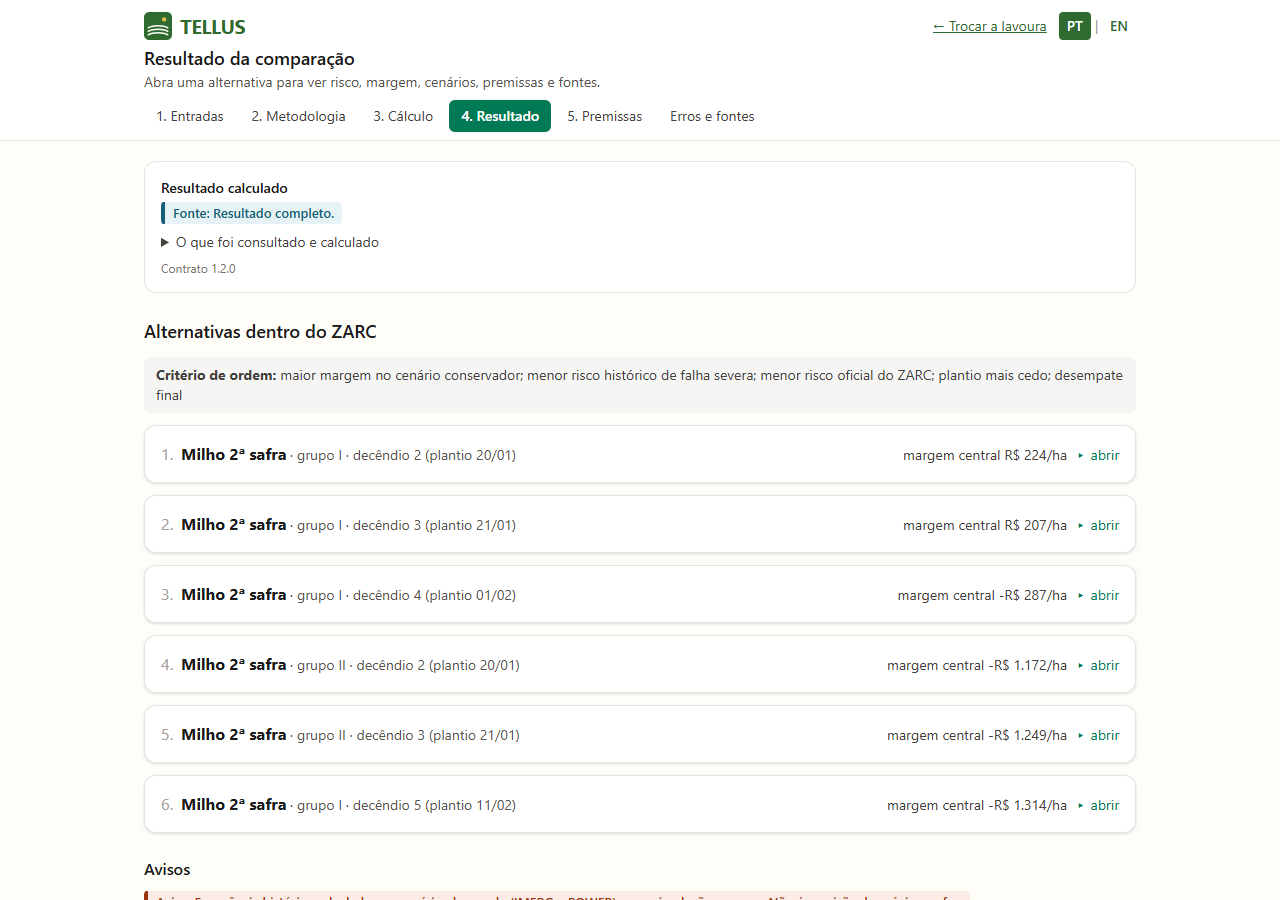
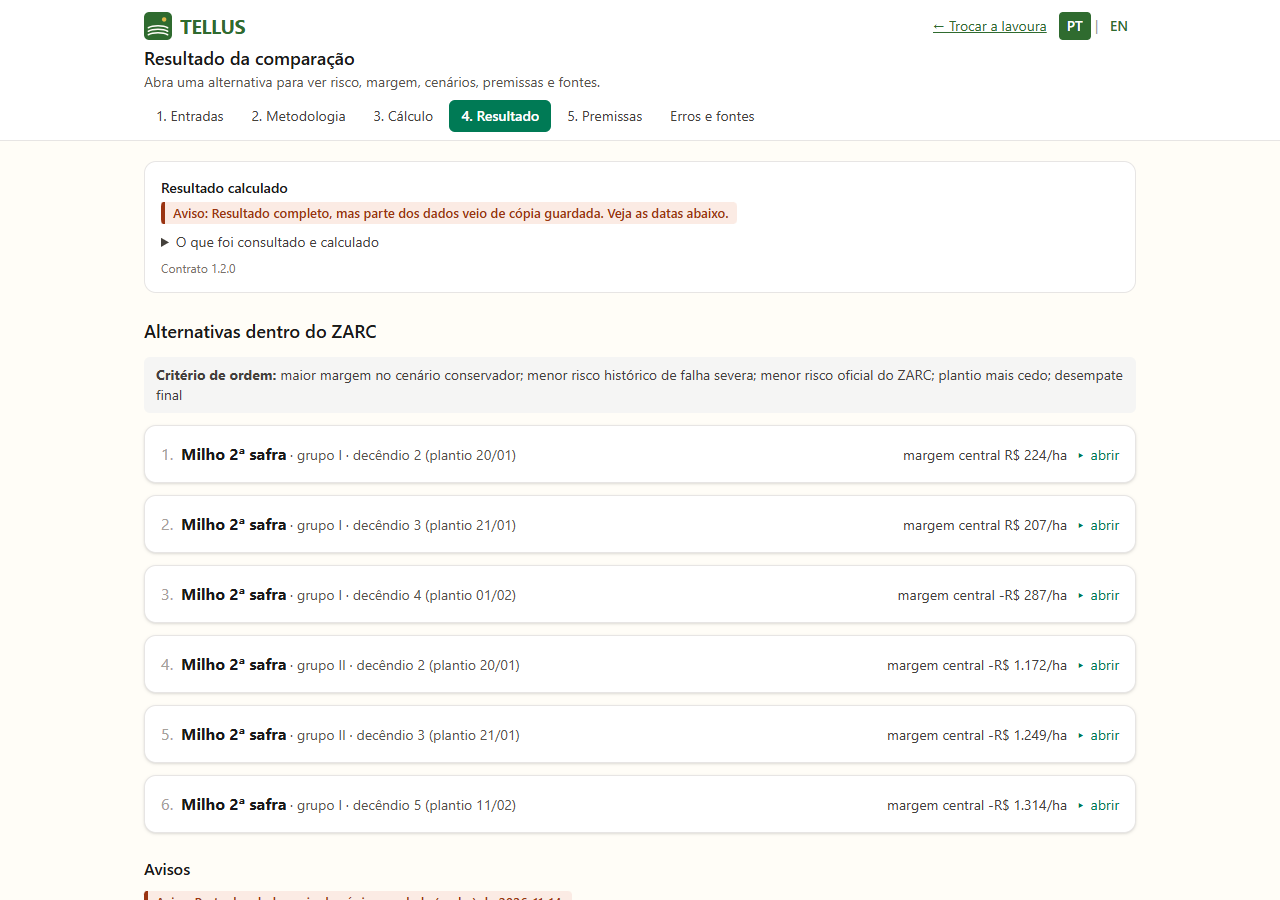
Resultado da bateria e2e após a correção: 21 de 21 testes passaram

diff --git a/docs/testes-e2e/RELATORIO.md b/docs/testes-e2e/RELATORIO.md
@@ -7,22 +7,14 @@
 
 | Item | Valor |
 |---|---|
-| Resultado | **21 de 21 testes conforme o esperado** (2 deles são defeitos conhecidos, abaixo) |
-| Verificações | 127 de 129 atendidas (as não atendidas são as dos defeitos conhecidos) |
+| Resultado | **21 de 21 testes conforme o esperado** (0 deles são defeitos conhecidos, abaixo) |
+| Verificações | 131 de 131 atendidas (as não atendidas são as dos defeitos conhecidos) |
 | Capturas de tela | 45 |
-| Início da execução | 15/11/2026, 15:49:40 (horário de Brasília) |
-| Commit testado | `b399ebb` (branch `testes-e2e-playwright`, sem alterações locais) |
+| Início da execução | 15/11/2026, 16:35:48 (horário de Brasília) |
+| Commit testado | `b00a3b0` (branch `corrige-grupo-nao-sei`, com 51 arquivo(s) alterado(s) fora do commit) |
 | Navegador | Microsoft Edge 157.0.4341.60 (Playwright 1.64.1, Node v24.20.0) |
 | Contrato da API | 1.2.0 |
 | Dados | API local com as séries e caches versionados do repositório (sem login NASA) |
-
-## Defeitos conhecidos encontrados pela bateria
-
-Testes marcados com `test.fail`: descrevem o comportamento correto e falham enquanto o defeito existir.
-Quando o defeito for corrigido, o Playwright acusa "passou inesperadamente" e a marca deve sair.
-
-- [Defeito conhecido: "O que foi consultado" com grupo "não sei" lista as fontes e não marca culturas como falha](#03-calculo-real-defeito-conhecido-o-que-foi-consultado-com-grupo-nao-sei-lista-as-fontes-e-nao-marca-culturas-como-falha): Com grupo "não sei", fontes vem vazio e as seções por cultura aparecem como ✕ indisponível. (`frontend/e2e/03-calculo-real.e2e.ts`)
-- [Defeito conhecido: com grupo "não sei", o resultado mostra o padrão ao lado do preço editado](#04-premissas-defeito-conhecido-com-grupo-nao-sei-o-resultado-mostra-o-padrao-ao-lado-do-preco-editado): Com grupo "não sei", valor_padrao vem nulo e a tela diz "sem padrão com fonte". (`frontend/e2e/04-premissas.e2e.ts`)
 
 ## Testes
 
@@ -38,9 +30,9 @@ Quando o defeito for corrigido, o Playwright acusa "passou inesperadamente" e a 
 | 2. Entradas e validação | [Caso de referência preenchido segue para a metodologia](#02-entradas-caso-de-referencia-preenchido-segue-para-a-metodologia) | ✅ passou | 2 | 6/6 |
 | 2. Entradas e validação | [Metodologia sem escolha não calcula](#02-entradas-metodologia-sem-escolha-nao-calcula) | ✅ passou | 1 | 7/7 |
 | 3. Cálculo real (Rio Verde-GO) | [Caso de referência: Rio Verde-GO, colheita 20/01/2027, argilosa, grupo "não sei"](#03-calculo-real-caso-de-referencia-rio-verde-go-colheita-20-01-2027-argilosa-grupo-nao-sei-) | ✅ passou | 6 | 19/19 |
-| 3. Cálculo real (Rio Verde-GO) | [Defeito conhecido: "O que foi consultado" com grupo "não sei" lista as fontes e não marca culturas como falha](#03-calculo-real-defeito-conhecido-o-que-foi-consultado-com-grupo-nao-sei-lista-as-fontes-e-nao-marca-culturas-como-falha) | ⚠ defeito conhecido (falhou como esperado) | 2 | 6/7 |
+| 3. Cálculo real (Rio Verde-GO) | [Grupo "não sei": "O que foi consultado" lista as fontes de clima e as culturas calculadas por grupo](#03-calculo-real-grupo-nao-sei-o-que-foi-consultado-lista-as-fontes-de-clima-e-as-culturas-calculadas-por-grupo) | ✅ passou | 2 | 9/9 |
 | 4. Premissas editadas e recálculo | [Premissas mostram os padrões reais e a edição chega ao cálculo](#04-premissas-premissas-mostram-os-padroes-reais-e-a-edicao-chega-ao-calculo) | ✅ passou | 5 | 16/16 |
-| 4. Premissas editadas e recálculo | [Defeito conhecido: com grupo "não sei", o resultado mostra o padrão ao lado do preço editado](#04-premissas-defeito-conhecido-com-grupo-nao-sei-o-resultado-mostra-o-padrao-ao-lado-do-preco-editado) | ⚠ defeito conhecido (falhou como esperado) | 1 | 6/7 |
+| 4. Premissas editadas e recálculo | [Grupo "não sei": o resultado mostra o padrão ao lado do preço editado](#04-premissas-grupo-nao-sei-o-resultado-mostra-o-padrao-ao-lado-do-preco-editado) | ✅ passou | 1 | 7/7 |
 | 5. Versão em inglês (spec 014) | [Trocar para inglês no topo vale em todas as telas e no resultado real](#05-idioma-trocar-para-ingles-no-topo-vale-em-todas-as-telas-e-no-resultado-real) | ✅ passou | 5 | 10/10 |
 | 5. Versão em inglês (spec 014) | [Link com ?lang=en abre direto em inglês](#05-idioma-link-com-lang-en-abre-direto-em-ingles) | ✅ passou | 1 | 1/1 |
 | 6. Celular (390 × 844) | [Fluxo completo no celular sem nada cortado na lateral](#06-celular-fluxo-completo-no-celular-sem-nada-cortado-na-lateral) | ✅ passou | 4 | 11/11 |
@@ -55,7 +47,7 @@ Quando o defeito for corrigido, o Playwright acusa "passou inesperadamente" e a 
 <a id="01-tela-inicial-tela-inicial-abre-com-marca-passo-a-passo-e-seletor-de-local"></a>
 ### Tela inicial abre com marca, passo a passo e seletor de local
 
-✅ passou · arquivo `frontend/e2e/01-tela-inicial.e2e.ts` · tela 1280×900 · 15/11/2026, 15:49:41 → 15/11/2026, 15:49:42
+✅ passou · arquivo `frontend/e2e/01-tela-inicial.e2e.ts` · tela 1280×900 · 15/11/2026, 16:35:49 → 15/11/2026, 16:35:49
 
 #### Etapa 1: tela inicial
 
@@ -74,7 +66,7 @@ URL: `/`
 <a id="01-tela-inicial-escolher-rio-verde-go-pela-busca-mostra-as-fontes-do-local"></a>
 ### Escolher Rio Verde-GO pela busca mostra as fontes do local
 
-✅ passou · arquivo `frontend/e2e/01-tela-inicial.e2e.ts` · tela 1280×900 · 15/11/2026, 15:49:42 → 15/11/2026, 15:49:43
+✅ passou · arquivo `frontend/e2e/01-tela-inicial.e2e.ts` · tela 1280×900 · 15/11/2026, 16:35:50 → 15/11/2026, 16:35:51
 
 #### Etapa 1: busca por Rio Verde
 
@@ -114,7 +106,7 @@ URL: `/`
 <a id="01-tela-inicial-coordenadas-digitadas-tambem-escolhem-o-local"></a>
 ### Coordenadas digitadas também escolhem o local
 
-✅ passou · arquivo `frontend/e2e/01-tela-inicial.e2e.ts` · tela 1280×900 · 15/11/2026, 15:49:43 → 15/11/2026, 15:49:44
+✅ passou · arquivo `frontend/e2e/01-tela-inicial.e2e.ts` · tela 1280×900 · 15/11/2026, 16:35:52 → 15/11/2026, 16:35:52
 
 #### Etapa 1: coordenadas digitadas
 
@@ -135,7 +127,7 @@ URL: `/`
 <a id="01-tela-inicial-coordenada-fora-do-brasil-e-recusada-com-mensagem-em-portugues"></a>
 ### Coordenada fora do Brasil é recusada com mensagem em português
 
-✅ passou · arquivo `frontend/e2e/01-tela-inicial.e2e.ts` · tela 1280×900 · 15/11/2026, 15:49:44 → 15/11/2026, 15:49:45
+✅ passou · arquivo `frontend/e2e/01-tela-inicial.e2e.ts` · tela 1280×900 · 15/11/2026, 16:35:53 → 15/11/2026, 16:35:53
 
 #### Etapa 1: ponto fora do Brasil recusado
 
@@ -150,7 +142,7 @@ URL: `/`
 <a id="01-tela-inicial-botao-da-tela-inicial-leva-a-comparacao"></a>
 ### Botão da tela inicial leva à comparação
 
-✅ passou · arquivo `frontend/e2e/01-tela-inicial.e2e.ts` · tela 1280×900 · 15/11/2026, 15:49:45 → 15/11/2026, 15:49:47
+✅ passou · arquivo `frontend/e2e/01-tela-inicial.e2e.ts` · tela 1280×900 · 15/11/2026, 16:35:54 → 15/11/2026, 16:35:55
 
 #### Etapa 1: entradas com a lavoura escolhida
 
@@ -171,7 +163,7 @@ URL: `/comparacao/entradas`
 <a id="02-entradas-entradas-vazias-nao-seguem-e-explicam-o-que-falta"></a>
 ### Entradas vazias não seguem e explicam o que falta
 
-✅ passou · arquivo `frontend/e2e/02-entradas.e2e.ts` · tela 1280×900 · 15/11/2026, 15:49:47 → 15/11/2026, 15:49:47
+✅ passou · arquivo `frontend/e2e/02-entradas.e2e.ts` · tela 1280×900 · 15/11/2026, 16:35:56 → 15/11/2026, 16:35:56
 
 #### Etapa 1: erros de entradas vazias
 
@@ -187,7 +179,7 @@ URL: `/comparacao/entradas`
 <a id="02-entradas-agua-disponivel-em-mm-aceita-so-numero-positivo"></a>
 ### Água disponível em mm aceita só número positivo
 
-✅ passou · arquivo `frontend/e2e/02-entradas.e2e.ts` · tela 1280×900 · 15/11/2026, 15:49:47 → 15/11/2026, 15:49:49
+✅ passou · arquivo `frontend/e2e/02-entradas.e2e.ts` · tela 1280×900 · 15/11/2026, 16:35:57 → 15/11/2026, 16:35:58
 
 #### Etapa 1: agua disponivel negativa recusada
 
@@ -205,7 +197,7 @@ URL: `/comparacao/entradas`
 <a id="02-entradas-caso-de-referencia-preenchido-segue-para-a-metodologia"></a>
 ### Caso de referência preenchido segue para a metodologia
 
-✅ passou · arquivo `frontend/e2e/02-entradas.e2e.ts` · tela 1280×900 · 15/11/2026, 15:49:49 → 15/11/2026, 15:49:50
+✅ passou · arquivo `frontend/e2e/02-entradas.e2e.ts` · tela 1280×900 · 15/11/2026, 16:35:59 → 15/11/2026, 16:36:01
 
 #### Etapa 1: entradas preenchidas
 
@@ -234,7 +226,7 @@ URL: `/comparacao/metodologia`
 <a id="02-entradas-metodologia-sem-escolha-nao-calcula"></a>
 ### Metodologia sem escolha não calcula
 
-✅ passou · arquivo `frontend/e2e/02-entradas.e2e.ts` · tela 1280×900 · 15/11/2026, 15:49:51 → 15/11/2026, 15:49:52
+✅ passou · arquivo `frontend/e2e/02-entradas.e2e.ts` · tela 1280×900 · 15/11/2026, 16:36:01 → 15/11/2026, 16:36:03
 
 #### Etapa 1: metodologia sem escolha
 
@@ -257,7 +249,7 @@ URL: `/comparacao/metodologia`
 <a id="03-calculo-real-caso-de-referencia-rio-verde-go-colheita-20-01-2027-argilosa-grupo-nao-sei-"></a>
 ### Caso de referência: Rio Verde-GO, colheita 20/01/2027, argilosa, grupo "não sei"
 
-✅ passou · arquivo `frontend/e2e/03-calculo-real.e2e.ts` · tela 1280×900 · 15/11/2026, 15:49:52 → 15/11/2026, 15:49:56
+✅ passou · arquivo `frontend/e2e/03-calculo-real.e2e.ts` · tela 1280×900 · 15/11/2026, 16:36:03 → 15/11/2026, 16:36:08
 
 #### Etapa 1: metodologia: comparar as alternativas
 
@@ -307,7 +299,7 @@ URL: `/comparacao/resultado`
 
 | | Verificação | Esperado | Obtido |
 |---|---|---|---|
-| ✅ | Recomendação listada como pronta | "Recomendação (ordem das alternativas): pronto" | O que foi consultado e calculado ✕ Milho 2ª safra: risco hídrico (opcional): indisponível ✕ Milho 2ª safra: margem (opcional): indisponível ✕ Sorgo granífero 2ª safra: risco hídrico (opcional): indisponível ✕ Sorgo granífero 2ª safra: margem (opcional): indisponível ✕ Braquiária (cobertura): risco hídrico (opcional): indisponível ✕ Braquiária (cobertura): margem (opcional): indisponível ✓ Recomendação (ordem das alternativas): pronto ✓ Vegetação (NDVI MODIS) (opcional): pronto ✓ Umidade do solo (SMAP) (opcional): pronto |
+| ✅ | Recomendação listada como pronta | "Recomendação (ordem das alternativas): pronto" | O que foi consultado e calculado ◐ NASA GPM IMERG Final (precipitação diária): pronto com cópia guardada (cópia guardada de 2026-11-14) ◐ NASA POWER (variáveis diárias para ETo): pronto com cópia guardada (cópia guardada de 2026-11-14) ✓ Milho 2ª safra: risco hídrico (opcional): pronto (por grupo, na recomendação) ✓ Milho 2ª safra: margem (opcional): pronto (por grupo, na recomendação) ✓ Sorgo granífero 2ª safra: risco hídrico (opcional): pronto (por grupo, na recomendação) ✓ Sorgo granífero 2ª safra: margem (opcional): pronto (por grupo, na recomendação) ✓ Braquiária (cobertura): risco hídrico (opcional): pronto (por grupo, na recomendação) ✓ Braquiária (cobertura): margem (opcional): pronto (por grupo, na recomendação) ✓ Recomendação (ordem das alternativas): pronto ✓ Vegetação (NDVI MODIS) (opcional): pronto ✓ Umidade do solo (SMAP) (opcional): pronto |
 
 ![o que foi consultado e calculado](capturas/03-calculo-real/caso-de-referencia-rio-verde-go-colheita-20-01-2027-argilosa/04-o-que-foi-consultado-e-calculado.png)
 
@@ -332,18 +324,10 @@ URL: `/comparacao/resultado`
 
 ![verificações finais](capturas/03-calculo-real/caso-de-referencia-rio-verde-go-colheita-20-01-2027-argilosa/06-verificacoes-finais.png)
 
-<a id="03-calculo-real-defeito-conhecido-o-que-foi-consultado-com-grupo-nao-sei-lista-as-fontes-e-nao-marca-culturas-como-falha"></a>
-### Defeito conhecido: "O que foi consultado" com grupo "não sei" lista as fontes e não marca culturas como falha
+<a id="03-calculo-real-grupo-nao-sei-o-que-foi-consultado-lista-as-fontes-de-clima-e-as-culturas-calculadas-por-grupo"></a>
+### Grupo "não sei": "O que foi consultado" lista as fontes de clima e as culturas calculadas por grupo
 
-⚠ defeito conhecido (falhou como esperado) · arquivo `frontend/e2e/03-calculo-real.e2e.ts` · tela 1280×900 · 15/11/2026, 15:49:56 → 15/11/2026, 15:50:02
-
-**Defeito conhecido:** Com grupo "não sei", fontes vem vazio e as seções por cultura aparecem como ✕ indisponível.
-
-**Falha registrada (esperada):**
-
-```
-Error: expect(locator).toContainText(expected) failed  Locator: locator('#resultado-real details').first()
-```
+✅ passou · arquivo `frontend/e2e/03-calculo-real.e2e.ts` · tela 1280×900 · 15/11/2026, 16:36:08 → 15/11/2026, 16:36:17
 
 #### Etapa 1: metodologia: comparar as alternativas
 
@@ -357,25 +341,27 @@ URL: `/comparacao/metodologia`
 | ✅ | Área confirmada a partir da lavoura da tela inicial | estado da área com Rio Verde | Área confirmada: Rio Verde-GO (ponto) |
 | ✅ | Entradas válidas levam à metodologia | URL /comparacao/metodologia | http://localhost:4321/comparacao/metodologia |
 
-![metodologia: comparar as alternativas](capturas/03-calculo-real/defeito-conhecido-o-que-foi-consultado-com-grupo-nao-sei-lis/01-metodologia-comparar-as-alternativas.png)
+![metodologia: comparar as alternativas](capturas/03-calculo-real/grupo-nao-sei-o-que-foi-consultado-lista-as-fontes-de-clima-/01-metodologia-comparar-as-alternativas.png)
 
-#### Etapa 2: FALHA Fontes de dados listadas
+#### Etapa 2: o que foi consultado com grupo nao sei
 
 URL: `/comparacao/resultado`
 
 | | Verificação | Esperado | Obtido |
 |---|---|---|---|
 | ✅ | Cálculo real termina e mostra o estado do resultado | "Resultado calculado" ou "Resultado parcial" | Resultado calculado |
-| ❌ | Fontes de dados listadas | NASA GPM IMERG e NASA POWER entre as etapas | O que foi consultado e calculado ✕ Milho 2ª safra: risco hídrico (opcional): indisponível ✕ Milho 2ª safra: margem (opcional): indisponível ✕ Sorgo granífero 2ª safra: risco hídrico (opcional): indisponível ✕ Sorgo granífero 2ª safra: margem (opcional): indisponível ✕ Braquiária (cobertura): risco hídrico (opcional): indisponível ✕ Braquiária (cobertura): margem (opcional): indisponível ✓ Recomendação (ordem das alternativas): pronto ✓ Vegetação (NDVI MODIS) (opcional): pronto ✓ Umidade do solo (SMAP) (opcional): pronto |
+| ✅ | Fontes de dados listadas | NASA GPM IMERG e NASA POWER entre as etapas | O que foi consultado e calculado ◐ NASA GPM IMERG Final (precipitação diária): pronto com cópia guardada (cópia guardada de 2026-11-14) ◐ NASA POWER (variáveis diárias para ETo): pronto com cópia guardada (cópia guardada de 2026-11-14) ✓ Milho 2ª safra: risco hídrico (opcional): pronto (por grupo, na recomendação) ✓ Milho 2ª safra: margem (opcional): pronto (por grupo, na recomendação) ✓ Sorgo granífero 2ª safra: risco hídrico (opcional): pronto (por grupo, na recomendação) ✓ Sorgo granífero 2ª safra: margem (opcional): pronto (por grupo, na recomendação) ✓ Braquiária (cobertura): risco hídrico (opcional): pronto (por grupo, na recomendação) ✓ Braquiária (cobertura): margem (opcional): pronto (por grupo, na recomendação) ✓ Recomendação (ordem das alternativas): pronto ✓ Vegetação (NDVI MODIS) (opcional): pronto ✓ Umidade do solo (SMAP) (opcional): pronto |
+| ✅ | Culturas não aparecem como falha | nenhum "✕" nas culturas | O que foi consultado e calculado ◐ NASA GPM IMERG Final (precipitação diária): pronto com cópia guardada (cópia guardada de 2026-11-14) ◐ NASA POWER (variáveis diárias para ETo): pronto com cópia guardada (cópia guardada de 2026-11-14) ✓ Milho 2ª safra: risco hídrico (opcional): pronto (por grupo, na recomendação) ✓ Milho 2ª safra: margem (opcional): pronto (por grupo, na recomendação) ✓ Sorgo granífero 2ª safra: risco hídrico (opcional): pronto (por grupo, na recomendação) ✓ Sorgo granífero 2ª safra: margem (opcional): pronto (por grupo, na recomendação) ✓ Braquiária (cobertura): risco hídrico (opcional): pronto (por grupo, na recomendação) ✓ Braquiária (cobertura): margem (opcional): pronto (por grupo, na recomendação) ✓ Recomendação (ordem das alternativas): pronto ✓ Vegetação (NDVI MODIS) (opcional): pronto ✓ Umidade do solo (SMAP) (opcional): pronto |
+| ✅ | Culturas indicadas como calculadas por grupo | "por grupo, na recomendação" | conforme o esperado |
 
-![FALHA Fontes de dados listadas](capturas/03-calculo-real/defeito-conhecido-o-que-foi-consultado-com-grupo-nao-sei-lis/02-falha-fontes-de-dados-listadas.png)
+![o que foi consultado com grupo nao sei](capturas/03-calculo-real/grupo-nao-sei-o-que-foi-consultado-lista-as-fontes-de-clima-/02-o-que-foi-consultado-com-grupo-nao-sei.png)
 
 ## 4. Premissas editadas e recálculo
 
 <a id="04-premissas-premissas-mostram-os-padroes-reais-e-a-edicao-chega-ao-calculo"></a>
 ### Premissas mostram os padrões reais e a edição chega ao cálculo
 
-✅ passou · arquivo `frontend/e2e/04-premissas.e2e.ts` · tela 1280×900 · 15/11/2026, 15:50:03 → 15/11/2026, 15:50:07
+✅ passou · arquivo `frontend/e2e/04-premissas.e2e.ts` · tela 1280×900 · 15/11/2026, 16:36:18 → 15/11/2026, 16:36:29
 
 #### Etapa 1: padroes reais de Rio Verde-GO
 
@@ -423,7 +409,7 @@ URL: `/comparacao/resultado`
 | | Verificação | Esperado | Obtido |
 |---|---|---|---|
 | ✅ | Cálculo real termina e mostra o estado do resultado | "Resultado calculado" ou "Resultado parcial" | Resultado calculado |
-| ✅ | Preço editado chega ao cálculo do milho | hipótese "preco_r_saca (Milho 2ª safra): … → 70 … (editado pelo produtor)" | Hipótese: preco_r_saca (Milho 2ª safra): sem padrão com fonte → 70 R$/saca 60 kg (editado pelo produtor) |
+| ✅ | Preço editado chega ao cálculo do milho | hipótese "preco_r_saca (Milho 2ª safra): … → 70 … (editado pelo produtor)" | Hipótese: preco_r_saca (Milho 2ª safra): padrão 67,34 → 70 R$/saca 60 kg (editado pelo produtor) |
 
 ![milho com o preco editado](capturas/04-premissas/premissas-mostram-os-padroes-reais-e-a-edicao-chega-ao-calcu/04-milho-com-o-preco-editado.png)
 
@@ -438,20 +424,12 @@ URL: `/comparacao/resultado`
 
 ![sorgo com a cotacao informada](capturas/04-premissas/premissas-mostram-os-padroes-reais-e-a-edicao-chega-ao-calcu/05-sorgo-com-a-cotacao-informada.png)
 
-<a id="04-premissas-defeito-conhecido-com-grupo-nao-sei-o-resultado-mostra-o-padrao-ao-lado-do-preco-editado"></a>
-### Defeito conhecido: com grupo "não sei", o resultado mostra o padrão ao lado do preço editado
+<a id="04-premissas-grupo-nao-sei-o-resultado-mostra-o-padrao-ao-lado-do-preco-editado"></a>
+### Grupo "não sei": o resultado mostra o padrão ao lado do preço editado
 
-⚠ defeito conhecido (falhou como esperado) · arquivo `frontend/e2e/04-premissas.e2e.ts` · tela 1280×900 · 15/11/2026, 15:50:07 → 15/11/2026, 15:50:14
+✅ passou · arquivo `frontend/e2e/04-premissas.e2e.ts` · tela 1280×900 · 15/11/2026, 16:36:29 → 15/11/2026, 16:36:40
 
-**Defeito conhecido:** Com grupo "não sei", valor_padrao vem nulo e a tela diz "sem padrão com fonte".
-
-**Falha registrada (esperada):**
-
-```
-Error: expect(locator).toContainText(expected) failed  Locator: locator('#resultado-real details.group').filter({ hasText: 'Milho' }).first()
-```
-
-#### Etapa 1: FALHA Padrão aparece ao lado do novo valor
+#### Etapa 1: padrao ao lado do preco editado
 
 URL: `/comparacao/resultado`
 
@@ -463,16 +441,16 @@ URL: `/comparacao/resultado`
 | ✅ | Área confirmada a partir da lavoura da tela inicial | estado da área com Rio Verde | Área confirmada: Rio Verde-GO (ponto) |
 | ✅ | Entradas válidas levam à metodologia | URL /comparacao/metodologia | http://localhost:4321/comparacao/metodologia |
 | ✅ | Cálculo real termina e mostra o estado do resultado | "Resultado calculado" ou "Resultado parcial" | Resultado calculado |
-| ❌ | Padrão aparece ao lado do novo valor | "padrão 67,34 → 70" (ou o padrão vigente) | Hipótese: preco_r_saca (Milho 2ª safra): sem padrão com fonte → 70 R$/saca 60 kg (editado pelo produtor) |
+| ✅ | Padrão aparece ao lado do novo valor | "padrão 67,34 → 70" (ou o padrão vigente) | Hipótese: preco_r_saca (Milho 2ª safra): padrão 67,34 → 70 R$/saca 60 kg (editado pelo produtor) |
 
-![FALHA Padrão aparece ao lado do novo valor](capturas/04-premissas/defeito-conhecido-com-grupo-nao-sei-o-resultado-mostra-o-pad/01-falha-padrao-aparece-ao-lado-do-novo-valor.png)
+![padrao ao lado do preco editado](capturas/04-premissas/grupo-nao-sei-o-resultado-mostra-o-padrao-ao-lado-do-preco-e/01-padrao-ao-lado-do-preco-editado.png)
 
 ## 5. Versão em inglês (spec 014)
 
 <a id="05-idioma-trocar-para-ingles-no-topo-vale-em-todas-as-telas-e-no-resultado-real"></a>
 ### Trocar para inglês no topo vale em todas as telas e no resultado real
 
-✅ passou · arquivo `frontend/e2e/05-idioma.e2e.ts` · tela 1280×900 · 15/11/2026, 15:50:14 → 15/11/2026, 15:50:20
+✅ passou · arquivo `frontend/e2e/05-idioma.e2e.ts` · tela 1280×900 · 15/11/2026, 16:36:40 → 15/11/2026, 16:36:46
 
 #### Etapa 1: tela inicial em ingles
 
@@ -529,7 +507,7 @@ URL: `/comparacao/resultado`
 <a id="05-idioma-link-com-lang-en-abre-direto-em-ingles"></a>
 ### Link com ?lang=en abre direto em inglês
 
-✅ passou · arquivo `frontend/e2e/05-idioma.e2e.ts` · tela 1280×900 · 15/11/2026, 15:50:20 → 15/11/2026, 15:50:20
+✅ passou · arquivo `frontend/e2e/05-idioma.e2e.ts` · tela 1280×900 · 15/11/2026, 16:36:46 → 15/11/2026, 16:36:47
 
 #### Etapa 1: link com lang en
 
@@ -546,7 +524,7 @@ URL: `/comparacao/metodologia?lang=en`
 <a id="06-celular-fluxo-completo-no-celular-sem-nada-cortado-na-lateral"></a>
 ### Fluxo completo no celular sem nada cortado na lateral
 
-✅ passou · arquivo `frontend/e2e/06-celular.e2e.ts` · tela 390×844 · 15/11/2026, 15:50:20 → 15/11/2026, 15:50:24
+✅ passou · arquivo `frontend/e2e/06-celular.e2e.ts` · tela 390×844 · 15/11/2026, 16:36:47 → 15/11/2026, 16:36:51
 
 #### Etapa 1: tela inicial no celular
 
@@ -597,7 +575,7 @@ URL: `/comparacao/resultado`
 <a id="07-erros-simulados-tela-de-calculo-simula-sucesso-fonte-com-copia-guardada-e-falha-sem-copia"></a>
 ### Tela de cálculo simula sucesso, fonte com cópia guardada e falha sem cópia
 
-✅ passou · arquivo `frontend/e2e/07-erros-simulados.e2e.ts` · tela 1280×900 · 15/11/2026, 15:50:24 → 15/11/2026, 15:50:31
+✅ passou · arquivo `frontend/e2e/07-erros-simulados.e2e.ts` · tela 1280×900 · 15/11/2026, 16:36:51 → 15/11/2026, 16:36:58
 
 #### Etapa 1: simulacao tudo certo
 
@@ -643,7 +621,7 @@ URL: `/comparacao/carga`
 <a id="07-erros-simulados-tela-de-erros-mostra-os-tres-estados-de-uma-fonte"></a>
 ### Tela de erros mostra os três estados de uma fonte
 
-✅ passou · arquivo `frontend/e2e/07-erros-simulados.e2e.ts` · tela 1280×900 · 15/11/2026, 15:50:31 → 15/11/2026, 15:50:31
+✅ passou · arquivo `frontend/e2e/07-erros-simulados.e2e.ts` · tela 1280×900 · 15/11/2026, 16:36:58 → 15/11/2026, 16:36:58
 
 #### Etapa 1: tres estados de uma fonte
 
@@ -663,7 +641,7 @@ URL: `/comparacao/erros`
 <a id="08-api-mesmo-pedido-em-pt-e-en-da-os-mesmos-numeros-ordem-e-hash"></a>
 ### Mesmo pedido em PT e EN dá os mesmos números, ordem e hash
 
-✅ passou · arquivo `frontend/e2e/08-api.e2e.ts` · tela 1280×900 · 15/11/2026, 15:50:31 → 15/11/2026, 15:50:34
+✅ passou · arquivo `frontend/e2e/08-api.e2e.ts` · tela 1280×900 · 15/11/2026, 16:36:58 → 15/11/2026, 16:37:01
 
 #### Etapa 1: pt e en com os mesmos numeros
 
@@ -683,7 +661,7 @@ URL: `about:blank`
 <a id="08-api-versoes-do-contrato-1-1-0-aceita-2-0-0-recusada-com-as-versoes-aceitas"></a>
 ### Versões do contrato: 1.1.0 aceita, 2.0.0 recusada com as versões aceitas
 
-✅ passou · arquivo `frontend/e2e/08-api.e2e.ts` · tela 1280×900 · 15/11/2026, 15:50:34 → 15/11/2026, 15:50:34
+✅ passou · arquivo `frontend/e2e/08-api.e2e.ts` · tela 1280×900 · 15/11/2026, 16:37:01 → 15/11/2026, 16:37:01
 
 #### Etapa 1: versoes do contrato
 
@@ -700,7 +678,7 @@ URL: `about:blank`
 <a id="08-api-pedido-sem-area-confirmada-nao-comeca-o-calculo"></a>
 ### Pedido sem área confirmada não começa o cálculo
 
-✅ passou · arquivo `frontend/e2e/08-api.e2e.ts` · tela 1280×900 · 15/11/2026, 15:50:34 → 15/11/2026, 15:50:34
+✅ passou · arquivo `frontend/e2e/08-api.e2e.ts` · tela 1280×900 · 15/11/2026, 16:37:01 → 15/11/2026, 16:37:01
 
 #### Etapa 1: area nao confirmada recusada
 
